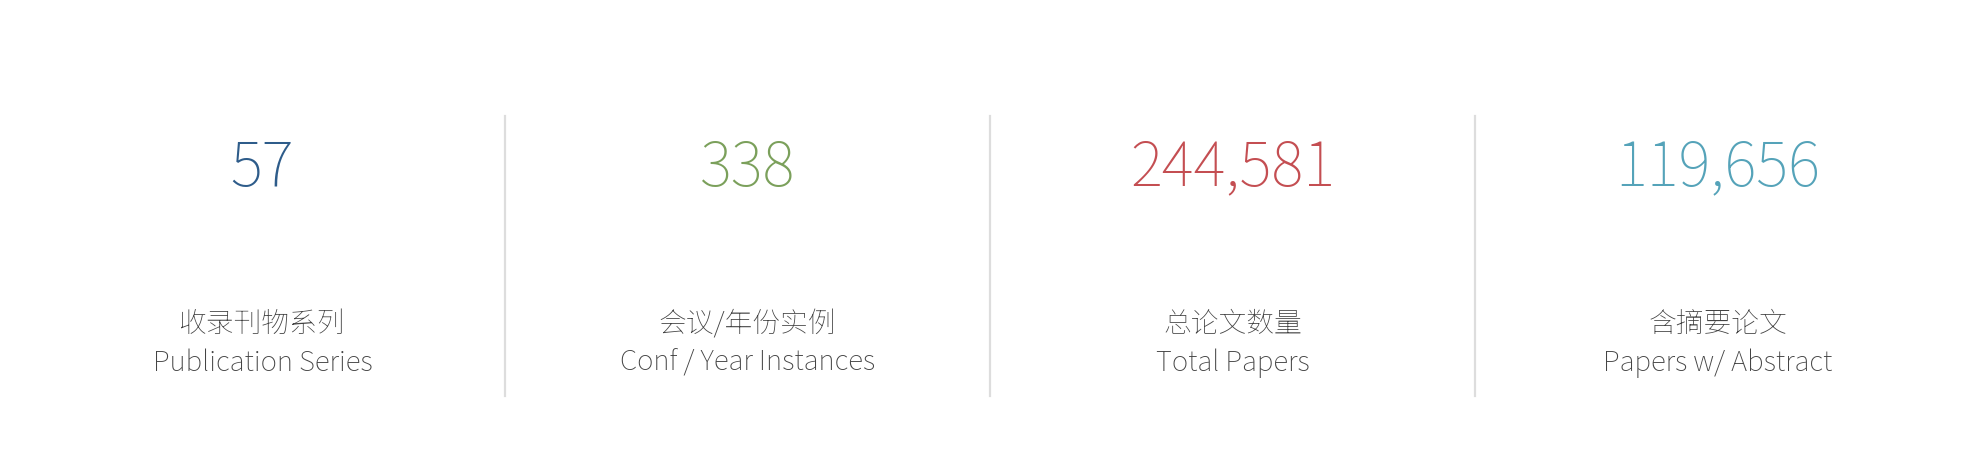
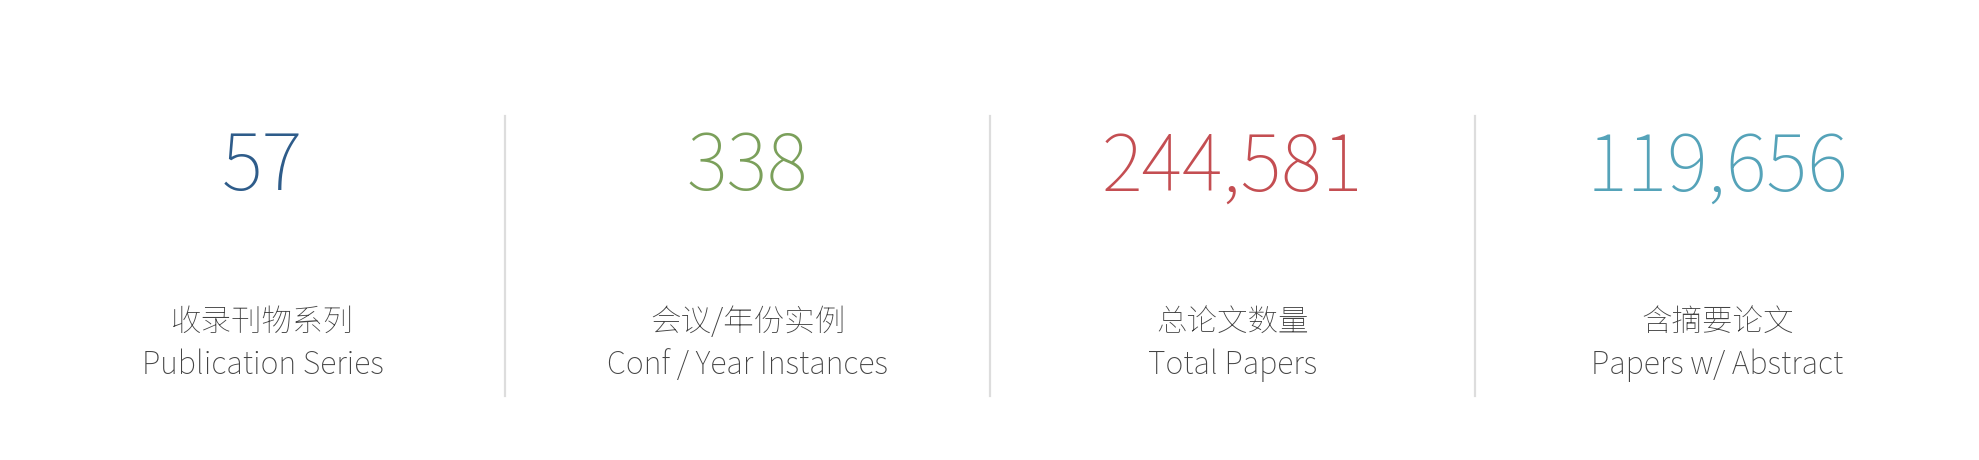
feat(maintain):调整统计图表字号、顺序与词云标题
- stats_overview.png 数字字号从 22 增大至 28，更醒目
- 词云图移除 ax.set_title，不再显示顶部标题
- README 统计区图片顺序调整为：概览 → 词云 → 分类+摘要表格 → 历年趋势

diff --git a/maintain.py b/maintain.py
@@ -239,8 +239,8 @@ def generate_charts(stats: dict):
     n = len(metrics)
     x_positions = [1.25 + i * 2.5 for i in range(n)]
     for (label, value, color), x in zip(metrics, x_positions):
-        ax.text(x, 1.55, value, fontsize=22, fontweight="bold", ha="center", va="center", color=color)
-        ax.text(x, 0.55, label, fontsize=10, ha="center", va="center", color="#444444", linespacing=1.4)
+        ax.text(x, 1.55, value, fontsize=28, fontweight="bold", ha="center", va="center", color=color)
+        ax.text(x, 0.55, label, fontsize=11, ha="center", va="center", color="#444444", linespacing=1.4)
         if x < x_positions[-1]:
             ax.plot([x + 1.25, x + 1.25], [0.25, 1.85], color="#DDDDDD", linewidth=0.8)
 
@@ -278,8 +278,6 @@ def generate_wordcloud(stats: dict):
     fig, ax = plt.subplots(figsize=(12, 4.5))
     ax.imshow(wc, interpolation="bilinear")
     ax.axis("off")
-    ax.set_title("Publication Series 词云 (Word Cloud)", fontsize=15, fontweight="bold",
-                 pad=18, color="#1a1a1a")
     fig.tight_layout(pad=0)
     fig.savefig(os.path.join(stats_dir, "wordcloud.png"), dpi=200, bbox_inches="tight", facecolor="white")
     plt.close(fig)
@@ -406,18 +404,19 @@ def build_stats_section():
         '  <img src="./pics/stats/stats_overview.png" alt="统计概览" width="850" />',
         "</p>",
         "",
+        '<p align="center">',
+        '  <img src="./pics/stats/wordcloud.png" alt="刊物系列词云" width="900" />',
+        "</p>",
+        "",
         "<table>",
         "  <tr>",
         '    <td align="center"><img src="./pics/stats/papers_by_category.png" alt="各领域论文数量" width="500" /></td>',
         '    <td align="center"><img src="./pics/stats/abstract_coverage.png" alt="摘要覆盖情况" width="330" /></td>',
         "  </tr>",
-        "  <tr>",
-        '    <td colspan="2" align="center"><img src="./pics/stats/papers_by_year.png" alt="历年论文收录趋势" width="800" /></td>',
-        "  </tr>",
         "</table>",
         "",
         '<p align="center">',
-        '  <img src="./pics/stats/wordcloud.png" alt="刊物系列词云" width="900" />',
+        '  <img src="./pics/stats/papers_by_year.png" alt="历年论文收录趋势" width="800" />',
         "</p>",
     ]
     return "\n".join(lines)
@@ -430,18 +429,19 @@ def build_stats_section_en():
         '  <img src="./pics/stats/stats_overview.png" alt="Statistics Overview" width="850" />',
         "</p>",
         "",
+        '<p align="center">',
+        '  <img src="./pics/stats/wordcloud.png" alt="Publication Series Word Cloud" width="900" />',
+        "</p>",
+        "",
         "<table>",
         "  <tr>",
         '    <td align="center"><img src="./pics/stats/papers_by_category.png" alt="Papers by Research Field" width="500" /></td>',
         '    <td align="center"><img src="./pics/stats/abstract_coverage.png" alt="Abstract Coverage" width="330" /></td>',
         "  </tr>",
-        "  <tr>",
-        '    <td colspan="2" align="center"><img src="./pics/stats/papers_by_year.png" alt="Annual Paper Collection Trend" width="800" /></td>',
-        "  </tr>",
         "</table>",
         "",
         '<p align="center">',
-        '  <img src="./pics/stats/wordcloud.png" alt="Publication Series Word Cloud" width="900" />',
+        '  <img src="./pics/stats/papers_by_year.png" alt="Annual Paper Collection Trend" width="800" />',
         "</p>",
     ]
     return "\n".join(lines)

diff --git a/README.en.md b/README.en.md
@@ -47,18 +47,19 @@ PaperVault is evolving from a static paper list into a fully-featured, data-rich
   <img src="./pics/stats/stats_overview.png" alt="Statistics Overview" width="850" />
 </p>
 
+<p align="center">
+  <img src="./pics/stats/wordcloud.png" alt="Publication Series Word Cloud" width="900" />
+</p>
+
 <table>
   <tr>
     <td align="center"><img src="./pics/stats/papers_by_category.png" alt="Papers by Research Field" width="500" /></td>
     <td align="center"><img src="./pics/stats/abstract_coverage.png" alt="Abstract Coverage" width="330" /></td>
   </tr>
-  <tr>
-    <td colspan="2" align="center"><img src="./pics/stats/papers_by_year.png" alt="Annual Paper Collection Trend" width="800" /></td>
-  </tr>
 </table>
 
 <p align="center">
-  <img src="./pics/stats/wordcloud.png" alt="Publication Series Word Cloud" width="900" />
+  <img src="./pics/stats/papers_by_year.png" alt="Annual Paper Collection Trend" width="800" />
 </p>
 
 <!-- stats-end -->

diff --git a/README.md b/README.md
@@ -47,18 +47,19 @@ PaperVault 正在将其从一个静态论文清单工具逐步建设为一个功
   <img src="./pics/stats/stats_overview.png" alt="统计概览" width="850" />
 </p>
 
+<p align="center">
+  <img src="./pics/stats/wordcloud.png" alt="刊物系列词云" width="900" />
+</p>
+
 <table>
   <tr>
     <td align="center"><img src="./pics/stats/papers_by_category.png" alt="各领域论文数量" width="500" /></td>
     <td align="center"><img src="./pics/stats/abstract_coverage.png" alt="摘要覆盖情况" width="330" /></td>
   </tr>
-  <tr>
-    <td colspan="2" align="center"><img src="./pics/stats/papers_by_year.png" alt="历年论文收录趋势" width="800" /></td>
-  </tr>
 </table>
 
 <p align="center">
-  <img src="./pics/stats/wordcloud.png" alt="刊物系列词云" width="900" />
+  <img src="./pics/stats/papers_by_year.png" alt="历年论文收录趋势" width="800" />
 </p>
 
 <!-- stats-end -->